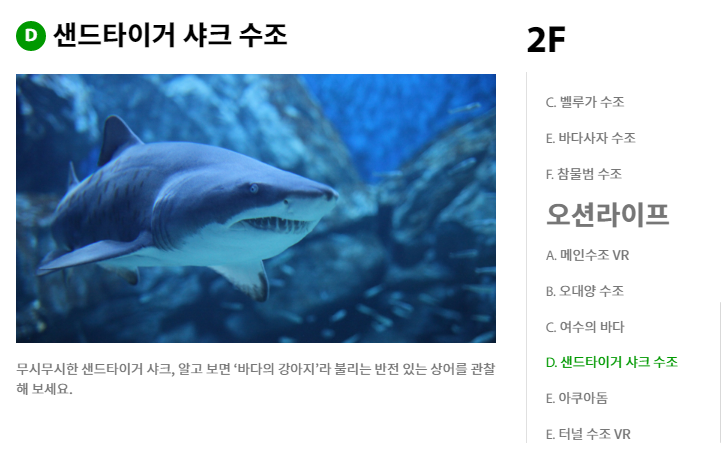
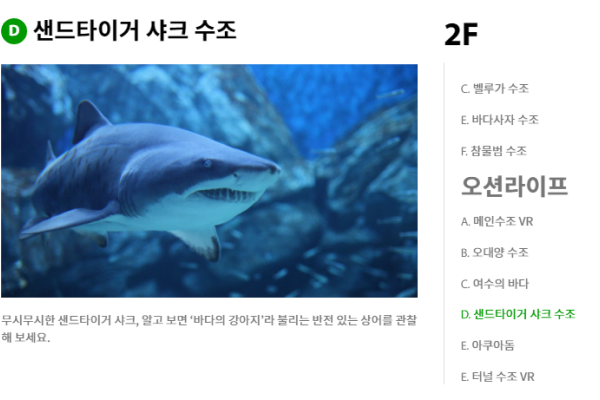
930

diff --git a/04company/css/style.css b/04company/css/style.css
@@ -69,8 +69,8 @@ body{
 /* 1457910 */
 .contents>ul>li:nth-child(1){background: #6b97f7;}
  
-.contents>ul>li:nth-child(2){background: url(../images/maincell1.png);}
-.contents>ul>li:nth-child(2) img{width: 90px;height: 90px;}
+.contents>ul>li:nth-child(2){background: url(../images/maincell1.png);background-size: cover;}
+.contents>ul>li:nth-child(2) img{width: 80px;height: 80px;}
 
 .contents>ul>li:nth-child(3){width: 50%;}
 .contents>ul>li:nth-child(4){background: #2926A6;}
@@ -257,7 +257,7 @@ body{
 
 #headerTop
         {width: 100%; height: 240px;  z-index: 1;
-            /* width: 1240px;  */
+            width: 1240px; 
           position: fixed;left: 50%; transform: translateX(-50%); top: 20px;
         /* display: flex;justify-content: space-between;align-items: center; */
         _background: skyblue;}
@@ -271,7 +271,7 @@ body{
 
 #headerTop .gnb{_background: #11357A ; _border-bottom: 1px solid #999;
     position: fixed; 
-    /* left: 50%;transform: translateX(-50%); */ 
+    left: 50%;transform: translateX(-50%); 
                  }
 #headerTop .gnb>ul>li{float: left; position: relative; height: 50px;
                     width: calc( (100% - 360px) / 6); padding: 10px 0 }
@@ -518,15 +518,15 @@ body{
 
         
 .contents{width: 100%;}
-.contents>ul>li{width: 50%;height: 250px;}
+.contents>ul>li{width: 50%;height: 240px;}
 
 
 .contents>ul>li:nth-child(3)
 /* .contents>ul>li:nth-child(6) */
-        {width: 100%;height: 250px;}
+        {width: 100%;height: 240px;}
 /* .contents>ul>li:nth-child(6)>a{width: 100%;height: 210px; } */
 
-.slider2Wrap{width: 100%;height: 250px;}
+.slider2Wrap{width: 100%;height: 240px;}
 
 .slider2Wrap .s2list div.left:after{
     border-style: solid;width: 60px;box-sizing: border-box;
@@ -569,9 +569,9 @@ body{
 
 .main2{_margin-top: 20px; width: 100%;}
 
-.main2>ul>li{width: 50%; float: left; height: 250px ;}
+.main2>ul>li{width: 50%; float: left; height: 240px ;}
 .liTxt{ text-align: left; padding: 40px;color: #333; }
-.main2 img{width: 100%;height: 250px;}
+.main2 img{width: 100%;height: 100%;}
 
 /* .guide li{background: #6A96DB;}
 .friends li{background: #C1CEAC ;} */

diff --git a/04company/index.html b/04company/index.html
@@ -134,7 +134,7 @@
                 <li class="sdrImg1">
                     <div class="slideTxt">
                         <h1 class="wow fadeInLeft" data-wow-delay="0" _data-wow-iteration="infinite" >동화 속 인어 공주를 만나 보세요</h1>
-                        <h2 class="wow fadeInRight" data-wow-delay="0.3s" _data-wow-iteration="infinite" >Welcome to Acua Planet 63!</h2>
+                        <h2 class="wow fadeInRight" data-wow-delay="0.3s" _data-wow-iteration="infinite" >Welcome to Aqua Planet 63!</h2>
                         
                     </div>
                </li>

diff --git a/04company/js/script.js b/04company/js/script.js
@@ -31,8 +31,8 @@ $(document).ready(function(){
 
     $(".youtube").colorbox({
         iframe:true,
-        innerWidth:800,
-        innerHeight:450
+        innerWidth:600,
+        innerHeight:330
     });
 
     // $(".toggle").on("이벤트명", 리스너);
